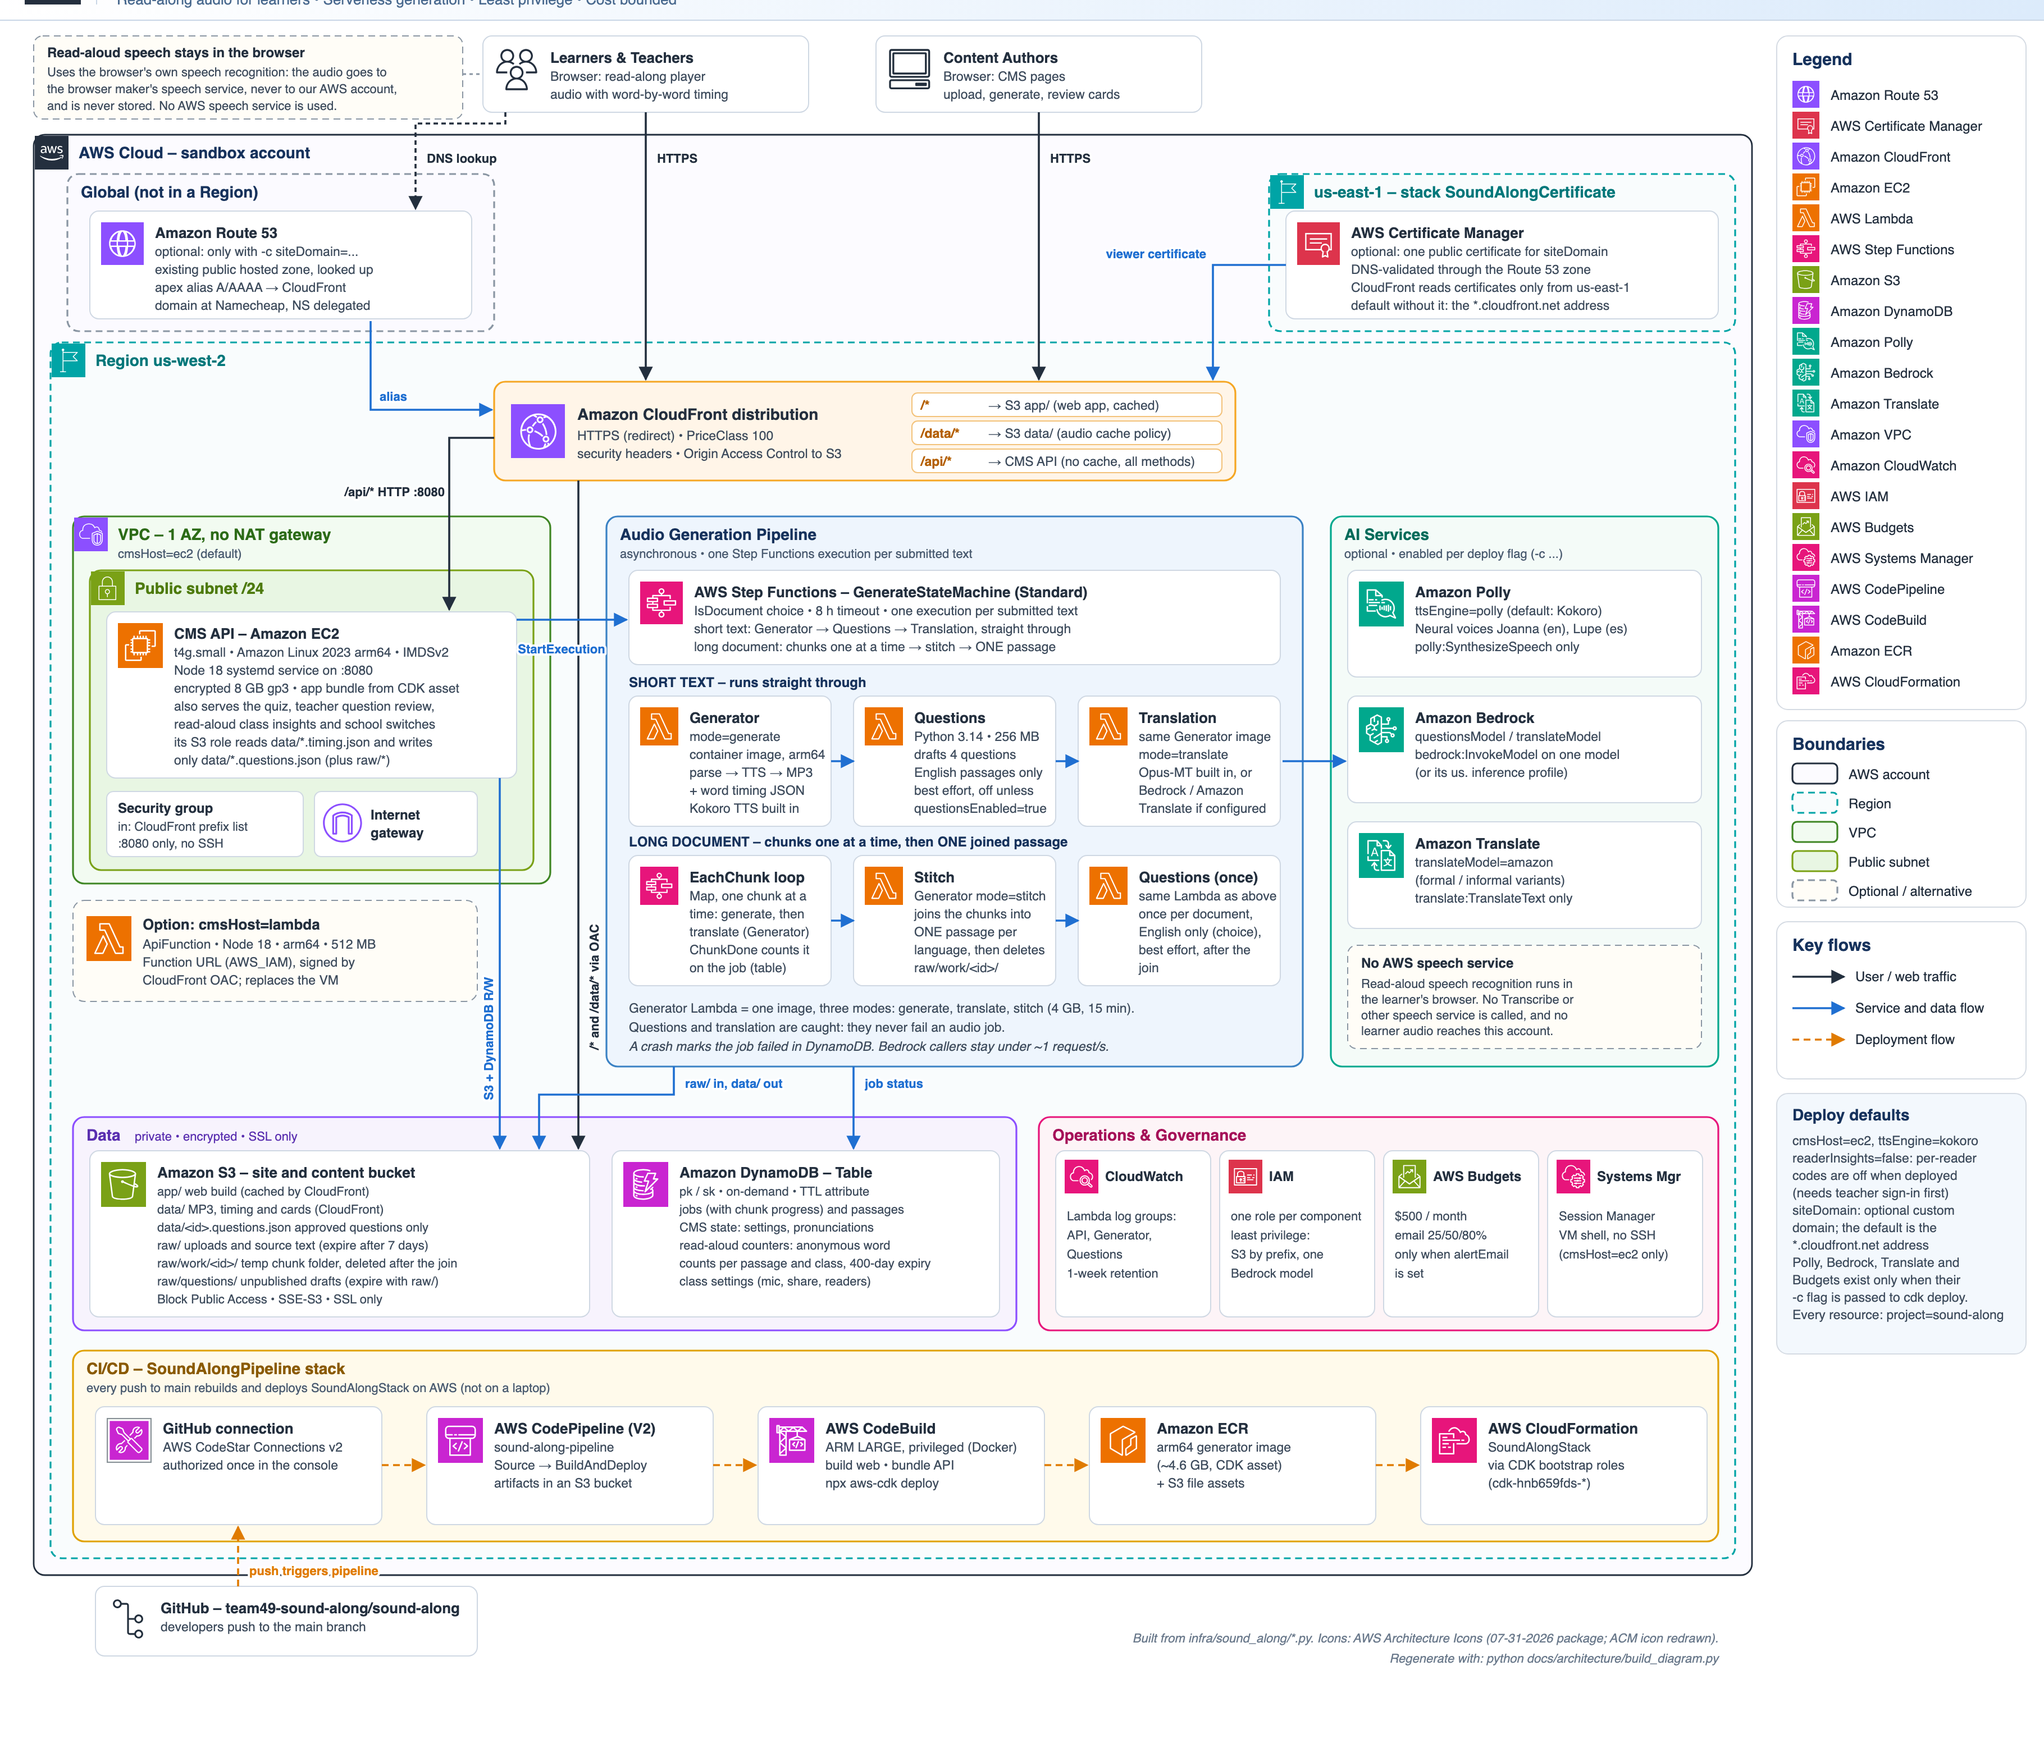
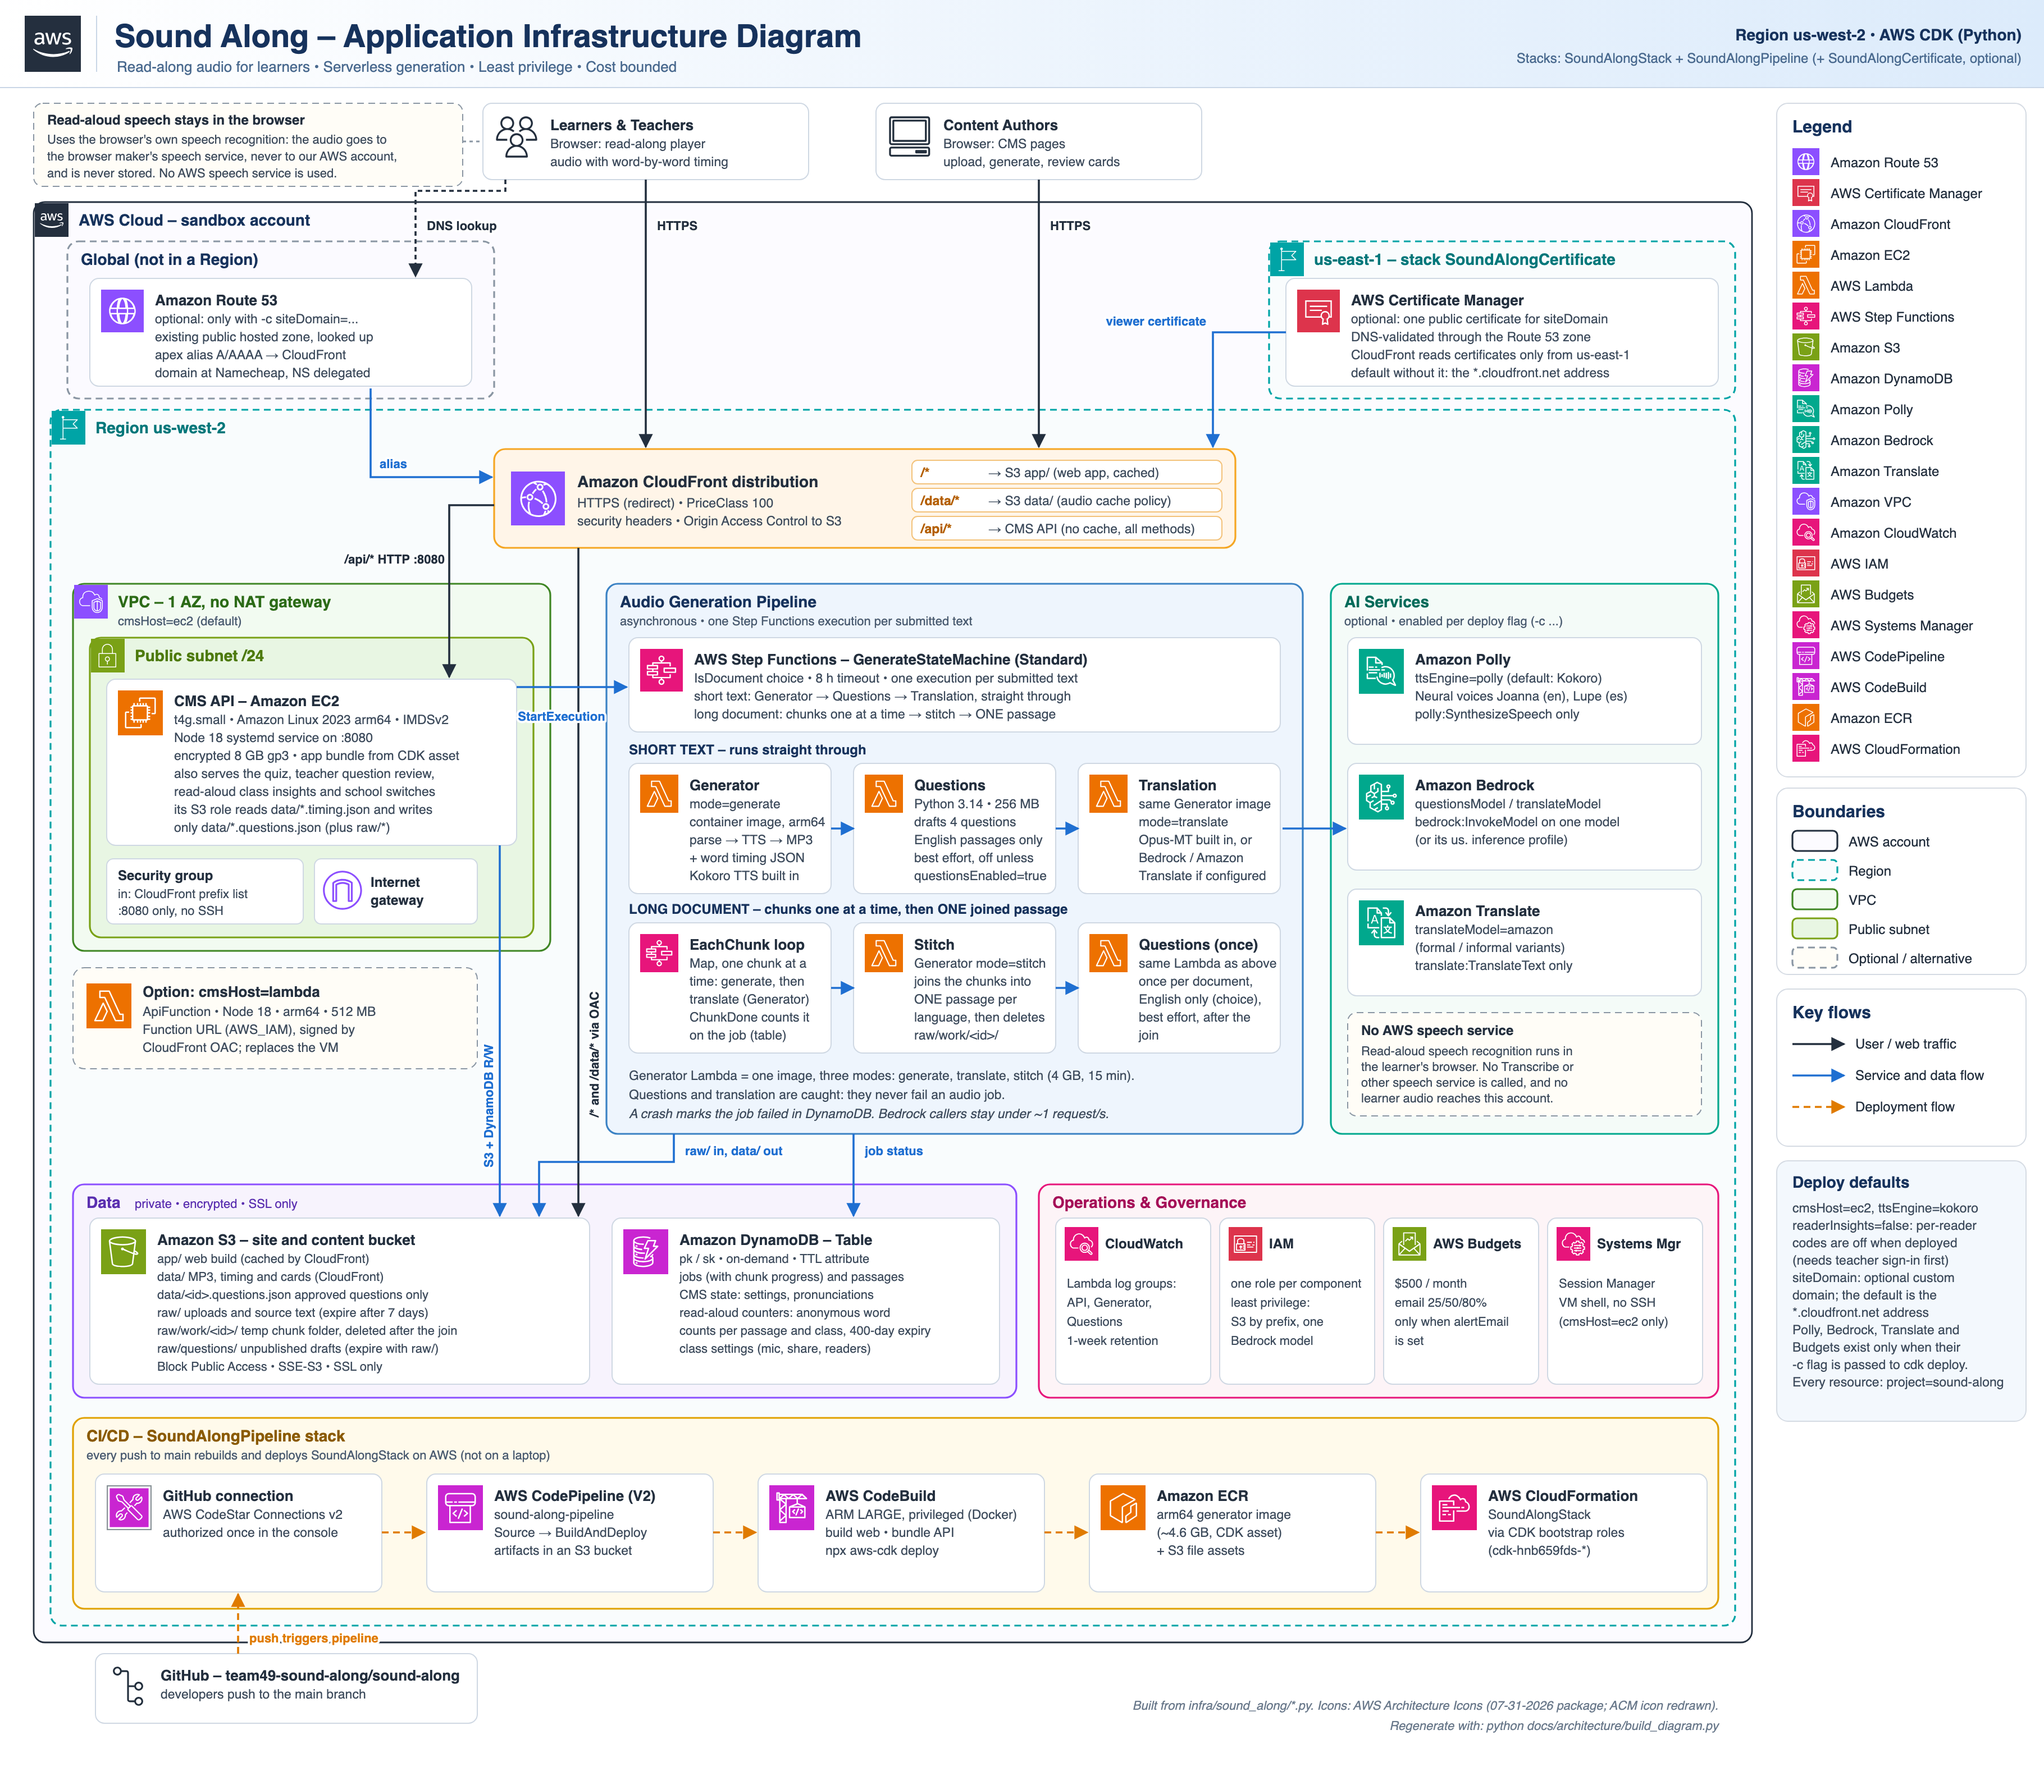
fix: the pipeline deploy passes on questionsModel, questionsEnabled and readerInsights; the diagram header is no longer cut off

diff --git a/docs/architecture/build_diagram.py b/docs/architecture/build_diagram.py
@@ -18,7 +18,7 @@ HERE = Path(__file__).resolve().parent
 ICONS = HERE / "icons"
 SVG_OUT = HERE / "sound-along-architecture.svg"
 PNG_OUT = HERE / "sound-along-architecture.png"
-WIDTH, HEIGHT = 1820, 1565
+WIDTH, HEIGHT = 1820, 1590
 DY = 150                      # everything inside the Region (and below) is drawn this far down, under the global / us-east-1 strip
 DATA_Y, DATA_H = 905, 190     # Data and Operations row (coordinates before the DY shift)
 CICD_Y = DATA_Y + DATA_H + 18
@@ -495,14 +495,29 @@ def render_png() -> None:
     # On macOS, headless Chrome/Edge lays the page out in a viewport shorter than the window and leaves the bottom
     # of the image white. Render a taller window there, then crop back to the diagram height with sips.
     pad = 120 if sys.platform == "darwin" and shutil.which("sips") else 0
-    subprocess.run(
-        [browser, "--headless=new", "--disable-gpu", "--hide-scrollbars", "--force-device-scale-factor=2",
-         f"--window-size={WIDTH},{HEIGHT + pad}", f"--screenshot={PNG_OUT}", SVG_OUT.as_uri()],
-        check=True, timeout=120, capture_output=True,
-    )
+    target = SVG_OUT
+    wrapper = None
     if pad:
-        subprocess.run(["sips", "--cropToHeightWidth", str(HEIGHT * 2), str(WIDTH * 2), "--cropOffset", "0", "0", str(PNG_OUT)],
-                       check=True, timeout=60, capture_output=True)
+        # sips crops from the CENTRE, so the picture is placed pad/2 CSS pixels down: the centre crop then removes the empty strips only.
+        wrapper = SVG_OUT.with_name("_render.html")
+        wrapper.write_text(
+            f'<!doctype html><meta charset="utf-8"><body style="margin:0;padding-top:{pad // 2}px;background:#fff">'
+            f'<img src="{SVG_OUT.name}" width="{WIDTH}" height="{HEIGHT}" style="display:block"></body>',
+            encoding="utf-8",
+        )
+        target = wrapper
+    try:
+        subprocess.run(
+            [browser, "--headless=new", "--disable-gpu", "--hide-scrollbars", "--force-device-scale-factor=2",
+             f"--window-size={WIDTH},{HEIGHT + pad}", f"--screenshot={PNG_OUT}", target.as_uri()],
+            check=True, timeout=120, capture_output=True,
+        )
+        if pad:
+            subprocess.run(["sips", "--cropToHeightWidth", str(HEIGHT * 2), str(WIDTH * 2), str(PNG_OUT)],
+                           check=True, timeout=60, capture_output=True)
+    finally:
+        if wrapper is not None:
+            wrapper.unlink(missing_ok=True)
     print(f"wrote {PNG_OUT}")
 
 

diff --git a/infra/tests/test_site_domain.py b/infra/tests/test_site_domain.py
@@ -16,3 +16,16 @@ def test_a_valid_hostname_is_accepted_and_lower_cased(value):
 def test_anything_else_is_refused(value):
     with pytest.raises(ValueError):
         parse_site_domain(value)
+
+
+def test_every_setting_the_app_reads_reaches_the_pipeline_deploy():
+    import pathlib
+    import re
+
+    from sound_along.config import PIPELINE_CONTEXT_KEYS
+
+    source = (pathlib.Path(__file__).resolve().parent.parent / "app.py").read_text()
+    read = set(re.findall(r'try_get_context\("([A-Za-z]+)"\)', source))
+    passed_separately = {"ttsEngine", "cmsHost", "alertEmail"}  # passed on by their own flags
+    pipeline_only = {"githubOwner", "githubRepo", "githubBranch"}  # settings of the pipeline stack itself
+    assert read - passed_separately - pipeline_only - set(PIPELINE_CONTEXT_KEYS) == set()

diff --git a/infra/app.py b/infra/app.py
@@ -12,6 +12,7 @@ import aws_cdk as cdk
 
 from sound_along.certificate_stack import SiteCertificateStack
 from sound_along.config import (
+    PIPELINE_CONTEXT_KEYS,
     DEFAULT_POLLY_VOICE,
     DEFAULT_POLLY_VOICE_ES,
     REGION,
@@ -99,7 +100,7 @@ def main() -> None:
             tts_engine=tts.engine,
             cms_host=cms_host,
             alert_email=alert_email,
-            extra_context=tuple((key, str(app.node.try_get_context(key))) for key in ("pollyVoice", "pollyVoiceEs", "pollyEngine", "translateModel", "siteDomain") if app.node.try_get_context(key) is not None),
+            extra_context=tuple((key, str(app.node.try_get_context(key))) for key in PIPELINE_CONTEXT_KEYS if app.node.try_get_context(key) is not None),
         ),
         env=env,
     )

diff --git a/infra/sound_along/config.py b/infra/sound_along/config.py
@@ -194,3 +194,8 @@ def parse_polly_engine(value: object) -> str | None:
     if not isinstance(value, str) or value.lower() not in POLLY_ENGINES:
         raise ValueError(f'Invalid CDK context "pollyEngine": {value!r}. Use one of {", ".join(POLLY_ENGINES)}.')
     return value.lower()
+
+
+# CDK context keys the CI/CD pipeline passes on to its own `cdk deploy` (ttsEngine, cmsHost and alertEmail are passed separately). A key read in
+# app.py but missing here would silently fall back to its default whenever the pipeline deploys.
+PIPELINE_CONTEXT_KEYS = ("pollyVoice", "pollyVoiceEs", "pollyEngine", "translateModel", "siteDomain", "questionsModel", "questionsEnabled", "readerInsights")
